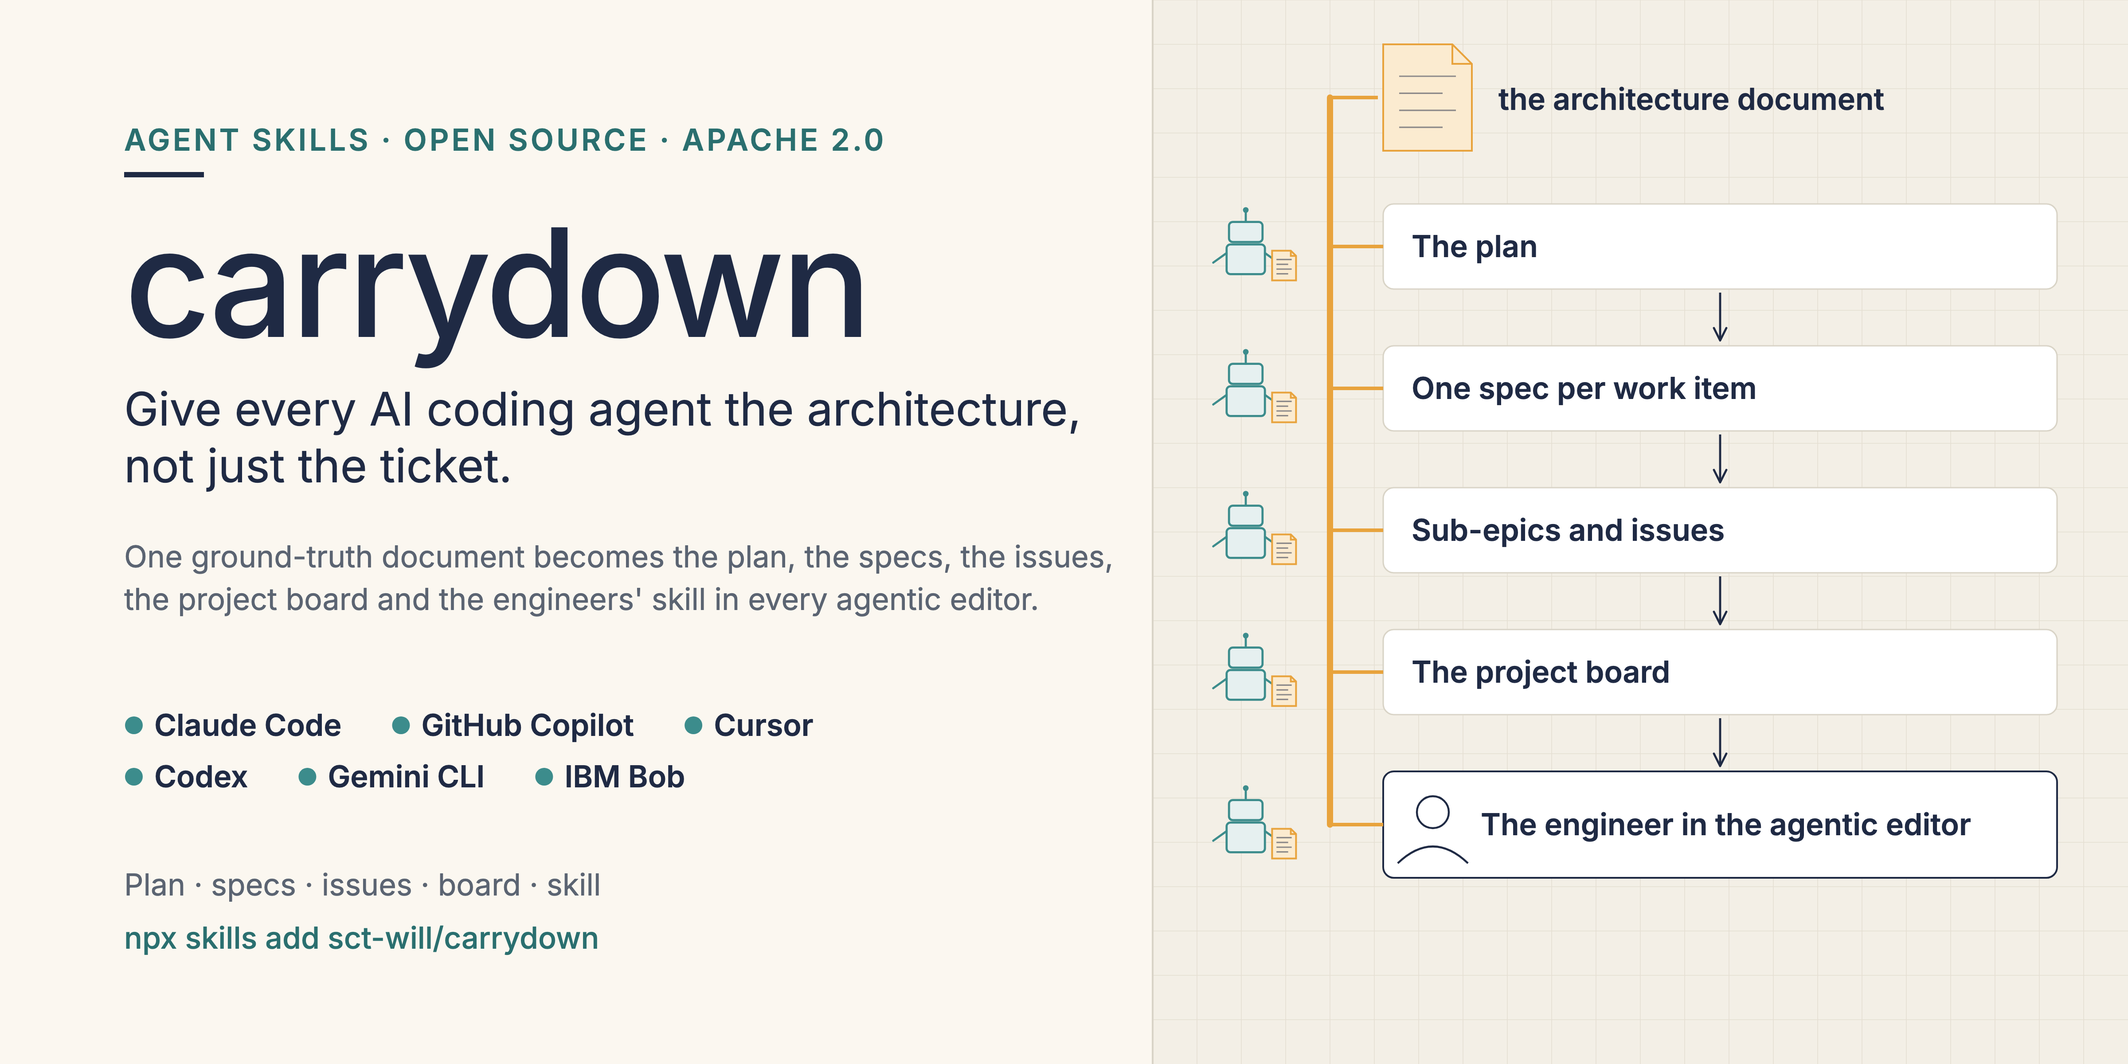
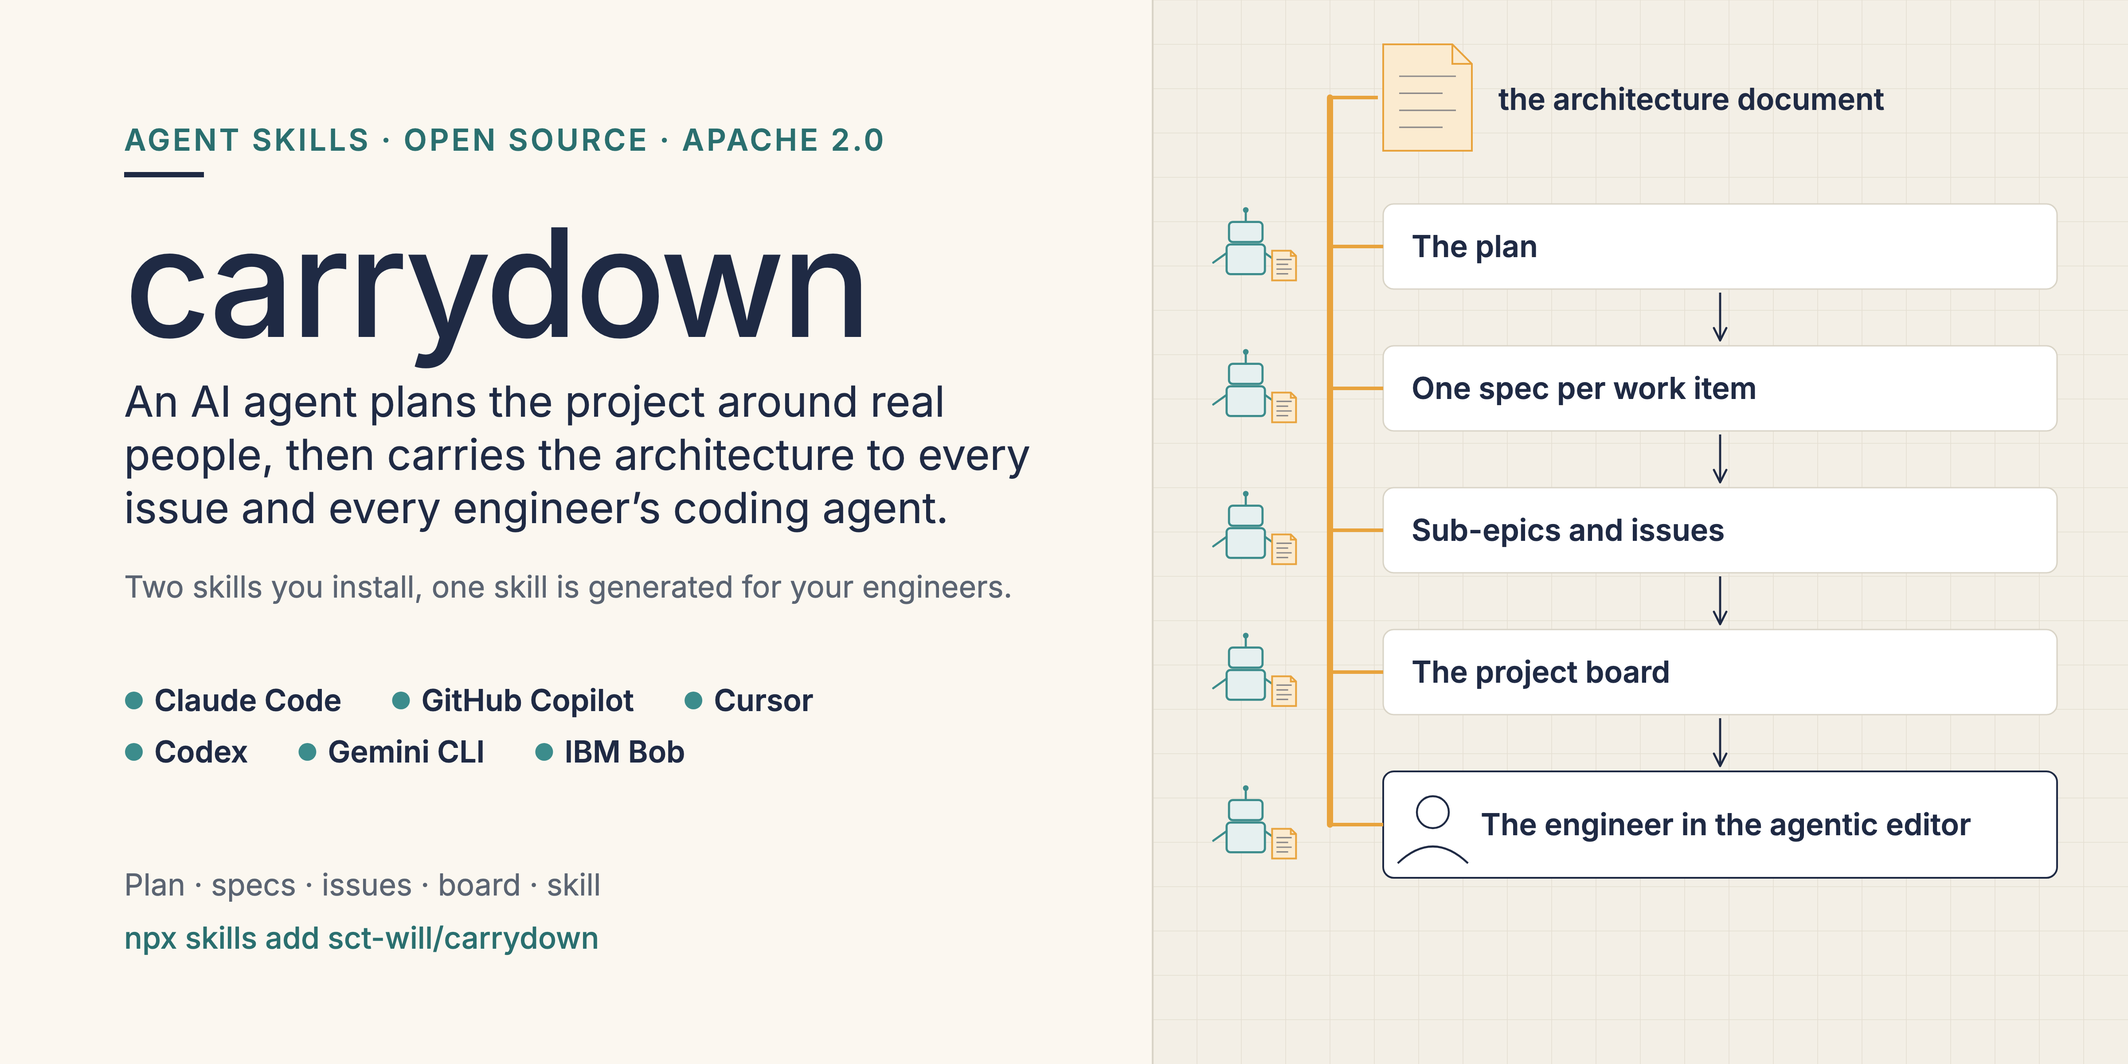
Rewrite the README around the four-step flow with the handoff diagram and real captures of the sample

Changed region(s): [[0.0625, 0.3438, 0.5312, 0.5938], [0.0625, 0.625, 0.375, 0.75]]

diff --git a/README.md b/README.md
@@ -1,70 +1,70 @@
-![carrydown. Give every AI coding agent the architecture, not just the ticket. One ground-truth document becomes the plan, the specs, the issues, the project board and the developer skill in every agentic editor.](docs/images/hero.png)
+![carrydown. An AI agent plans the project around real people, then carries the architecture to every issue and every engineer's coding agent. Two skills you install, one skill is generated for your engineers. On the right, the architecture document feeds the plan, one spec per work item, sub-epics and issues, the project board, and the engineer in the agentic editor.](docs/images/hero.png)
 
-# Give every AI coding agent the architecture, not just the ticket.
+# carrydown
 
-[![CI](https://github.com/sct-will/carrydown/actions/workflows/ci.yml/badge.svg)](https://github.com/sct-will/carrydown/actions/workflows/ci.yml) [![Licence](https://img.shields.io/github/license/sct-will/carrydown?v=2)](LICENSE) [![Agent Skills](https://img.shields.io/badge/Agent%20Skills-3%20skills-teal)](https://agentskills.io)
+Give your coding agent the architecture document, or other context, and optionally the project constraints: the number of engineers who will work on the project and the target duration. It drafts the plan, writes one specification per work item, carries both into GitHub as milestones, issues and a project board, and generates an agent skill every engineer's agent uses to read the right sections before it writes code. Two skills you install, one skill is generated for your engineers.
 
-I wrote most of a sixty-page architecture document this year, and I doubt anyone has read it end to end since the review, because nobody can hold sixty pages in their head while they build, me included. An AI agent can hold all of it, every section and every rule. carrydown has that agent carry the right paragraph to every engineer, through a plan dated around your real people, one specification per piece of work citing its section, GitHub issues, a board, and a skill that makes each coding agent read it all before it changes code.
-
-*Will Scott*
-
-[![Work item WI-03 from the sample as a GitHub issue, beside the specification file its AI engineering notes link to. The issue gives the target date, the checkpoint, a link to the specification, a link to the developer skill and the ground truth sections 3.4, 3.5 and 7.1. The specification lists the milestone, track, dates, size and dependencies, then an outline from "Why this work item exists" to "Decisions recorded", with a contract that excerpts the cited sections.](docs/images/issue-and-spec.png)](https://github.com/sct-will/carrydown-sample/issues/9)
-
-*A rendering of [the live WI-03 issue](https://github.com/sct-will/carrydown-sample/issues/9): its notes send the agent to the specification, and the specification to the sections it cites.*
+[![CI](https://github.com/sct-will/carrydown/actions/workflows/ci.yml/badge.svg)](https://github.com/sct-will/carrydown/actions/workflows/ci.yml) [![Licence](https://img.shields.io/github/license/sct-will/carrydown?v=2)](LICENSE) [![Agent Skills](https://img.shields.io/badge/Agent%20Skills-2%20skills-teal)](https://agentskills.io)
 
 ## Getting started
 
-Three ways in, and the first two need no install.
-
-**Look.** Open the [public sample board](https://github.com/users/sct-will/projects/2), click WI-03, then follow its specification link to the sections it cites. That is what an engineer's agent reads before it starts.
-
-**Try.** [Open the sample in a Codespace](https://codespaces.new/sct-will/carrydown), a ready-made computer in your browser. As it starts it runs the checker on the bundled sample, printing the schedule, the load table and the critical path, then a dry run of the issues it would create, without touching GitHub. "Codespaces: View Creation Log" shows it again.
-
-**Install.** Run this line in your project folder, pick your coding agents, then tell your agent "Set up a project plan from this document." Nothing is written to GitHub until you say yes.
+Run this in your project folder and pick your coding agent:
 
 ```bash
 npx skills add sct-will/carrydown
 ```
 
-## What it sounds like
+Put your document in `docs/ground-truth/` and tell your agent:
 
-The sample, from document to board. Text in code style is what the skills and scripts print, word for word; the rest is shortened.
+> Set up a project plan from this document.
 
-> **You:** Set up a project plan from this document. It is `docs/source/architecture.md`.
->
-> **Agent:** `carrydown: interview, step 1 of 6`. Which documents must the project obey, and which wins if two disagree? Five short steps follow, on people, dates, the repository, agents and tests.
->
-> **You:** Show me the load table and the critical path.
->
-> **Agent:** Each person's work against their allocated time, per work unit: `idris  60%  3 of 6d (50%)  4 of 9d (44%)  4 of 5d (74%)  0 of 6d  3 of 6d (50%)`. Nobody is over 100 percent, and the critical path `WI-01 -> WI-02 -> WI-04 -> WI-08 -> WI-11` meets the target with two days to spare.
->
-> **You:** Yes, the plan is right. Create the GitHub issues and the board.
->
-> **Agent:** Dry run, nothing written yet: `1 Epic, 5 sub-epics, 9 work item issues`. Shall I go ahead?
->
-> **You:** Go ahead. Then generate the developer skill.
->
-> **Agent:** Done, and the board is at https://github.com/users/sct-will/projects/2. Send each engineer the line for their agent, such as `npx skills add https://github.com/sct-will/carrydown-sample/tree/main/docs/dev/skills/expense-approvals-dev -a claude-code`, or `-a cursor`, `-a github-copilot`, `-a codex`, `-a gemini-cli` or `-a bob`. They start an item by saying "Work on WI-03".
-
-Before the GitHub step, a senior engineer reads the specifications for about an hour. The full output is in [a recorded run](docs/sample-run.md).
+To look before you install, open [the sample board](https://github.com/users/sct-will/projects/2), or [open the sample in a Codespace](https://codespaces.new/sct-will/carrydown) and watch the checker and a dry run of the issues without touching GitHub.
 
 ## How it works
 
-![How carrydown works, in six steps. Step 1, two inputs: the ground truth, which is required and can be architecture, requirements, analyst notes, governance rules and development standards as Word or Markdown files; and the project constraints, which are optional: the people, the track each owns, the percent of their time, start dates, days off, and a delivery date or number of weeks with any breaks. The agent takes what you have: give both and the plan fits them, give one and the agent backs into the other. Step 2, carrydown-ground-truth renders the document to Markdown with a section index that every later file cites. Step 3, the plan and the specs: the plan file, one milestone file per milestone and one specification per work item, checked against the plan; the ground truth carries down into every spec and the agent's instructions, and the constraints become dates, owners and fields. Step 4, carrydown-plan-to-github creates the GitHub issues: labels, sub-epics, work item issues, sub-issue links and an epic roll-up comment, dry run first, then apply. Step 5, the GitHub Project board with Work unit, Track, Complete by and Checkpoint fields and table, board and roadmap views. Step 6, carrydown-dev-skill generates the developer skill, installed in every agentic editor; an engineer says "Work on WI-07" and their agent reads the spec and the cited ground truth before planning any code. Nothing is written to GitHub until you confirm, and every GitHub step runs as a dry run first.](docs/images/flow.png)
+![How carrydown works. Two lanes. Plan owner, an engineering or product manager: step 1 Generate with carrydown-ground-truth, in: architecture document plus people and dates, out: plan.yaml and one spec per work item; step 2 Review, no skill, read and edit the plan and specs with the agent; step 3 Carry down to GitHub with carrydown-plan-to-github, out: epic, milestones, issues with specs, board, engineers' skill. One install line goes down to the Engineers lane: step 4 Work the issues, "Work on WI-03", the agent invokes the skill, reads the spec and the cited sections, then plans the code. The ground truth document is the only amber element and a thin amber thread runs from it through steps 1 and 3 into step 4.](docs/images/handoff.png)
+
+1. **Generate.** You have the ground truth, usually an architecture document. Your agent interviews you about people, time and dates, then writes the plan and one specification per work item. Skill: [carrydown-ground-truth](skills/carrydown-ground-truth/SKILL.md).
+2. **Review.** You read the plan and the specifications and edit them with the agent until they are right. No separate reviewer.
+3. **Carry down to GitHub.** Say "put the plan on GitHub". Then an epic, a sub-epic per milestone, an issue per work item with its specification, the board and the engineers' skill are generated by the agent. Skill: [carrydown-plan-to-github](skills/carrydown-plan-to-github/SKILL.md).
+4. **Work the issues.** Each engineer installs that skill once and says "Work on WI-03". Their agent reads the specification and the sections it cites, then plans the code.
+
+You are the plan owner, an engineering manager or a product manager, and you need not write code. The [plan owner guide](docs/plan-owner-guide.md) walks each step with you.
+
+## The sample, real and public
+
+[![Issue 9 in the sample repository, WI-03 Approval routing engine, as GitHub renders it. Open, parent Milestone 2, Route to approvers. The body gives the target completion date, the checkpoint, why the item exists, then the AI engineering notes: a link to the specification, a link to the engineers' skill, the instruction to install it once and ask your coding agent to work on WI-03, and the ground truth sections 3.4, 3.5 and 7.1.](docs/images/issue-9.png)](https://github.com/sct-will/carrydown-sample/issues/9)
+
+*What step 4 opens: [issue 9](https://github.com/sct-will/carrydown-sample/issues/9) and [the specification it links to](https://github.com/sct-will/carrydown-sample/blob/main/docs/spec/m2-route-to-approvers/wi-03-routing-engine.md).*
+
+[![The sample's GitHub Project as a table grouped by work unit, with the Title, Track, Complete by and Checkpoint columns. Five work units from 1 February to 23 April 2027, each with its milestone row and its work items, for example WI-03 Approval routing engine on the Workflow track, complete by 19 February 2027, checkpoint 26 February 2027.](docs/images/board.png)](https://github.com/users/sct-will/projects/2)
+
+*What step 3 built: [the board](https://github.com/users/sct-will/projects/2), shown as a table grouped by work unit.*
+
+The sample is a fictional expense approvals service, so the company, the people and the dates are invented. Everything the two skills made from it is real and public in [carrydown-sample](https://github.com/sct-will/carrydown-sample): [plan.yaml](https://github.com/sct-will/carrydown-sample/blob/main/docs/spec/plan.yaml), the nine specifications, fifteen issues, the board and [the generated engineers' skill](https://github.com/sct-will/carrydown-sample/tree/main/docs/dev/skills/expense-approvals-dev). A copy sits in [`sample/expense-approvals/`](sample/expense-approvals/) for the self test.
+
+## What the agent asks you
+
+The first skill interviews you in six short steps. Nothing is written to GitHub until the second skill shows you a dry run and you say yes.
+
+| The agent asks | You answer with |
+| --- | --- |
+| Which documents must the project obey, and which wins if two disagree? | File paths, and the winner |
+| Who does the work, which part of the system does each person own, from when, and at what share of their time? | Names, a track each, start dates, days off |
+| When must it ship, or how many weeks do you have? | A date, a number of weeks, or "derive the date" |
+| Which repository, and which coding agents do the engineers use? | owner/repo and the agents |
+| What must the people who watch each milestone demonstration see to call it done? | Their words, which become acceptance criteria |
+| How is the code built, tested and merged here? | The commands and the branch rule |
+
+Then it shows the schedule, each person's load per work unit, the critical path and the slack before every checkpoint, and asks you to review. If you have a date and no team, say so, and it derives the capacity; if you have a team and no date, it derives the date. [docs/inputs.md](docs/inputs.md) has the details.
 
 ## What you get
 
-Everything starts from your ground truth, the documents your project must obey: architecture, requirements, governance rules, standards. From it you get:
-
-- **A plan** with milestones, owners and dates fitted to your people and time, a load table of each person's work per time block, and a critical path, the chain of items that sets the end date.
-- **One specification per work item**, the smallest piece of work an engineer can finish and show, citing its sections and checked against the plan by a script that also runs in continuous integration.
-- **GitHub issues**, one per work item, grouped under a sub-epic per milestone, each telling the agent what to read.
-- **A GitHub Project board** with work units, tracks and dates filled in.
-- **A developer skill** each engineer installs once, so "Work on WI-07" makes their agent read the specification and its sections before touching code.
-
-[![The sample's GitHub Project board as a table grouped by work unit. Each milestone and work item shows its track, complete-by date, checkpoint and parent issue, for example WI-03 Approval routing engine on the Workflow track, complete by 24 February 2027, checkpoint "Routing meets inbox" on 26 February.](docs/images/board-table.png)](https://github.com/users/sct-will/projects/2)
-
-*A rendering of [the live board](https://github.com/users/sct-will/projects/2), grouped by work unit.*
+- **A plan** in `docs/spec/plan.yaml`: milestones, tracks, owners and dates fitted to your people and time, with a load table and a critical path, and a written reason for every milestone.
+- **One specification per work item**, the smallest piece of work an engineer can finish and show, citing the sections it comes from and checked against the plan by a script that also runs in continuous integration.
+- **GitHub issues**, one per work item under a sub-epic per milestone, each telling the engineer's agent what to read.
+- **A GitHub Project board** with work units, tracks, dates and checkpoints filled in.
+- **The engineers' skill**, generated from your specifications and committed in your repository, so "Work on WI-07" makes any coding agent read the specification and its sections before touching code.
 
 <details>
 <summary>Where the files go in your project</summary>
@@ -84,9 +84,9 @@ docs/
 
 </details>
 
-## Who does what
+## How the plan is composed
 
-carrydown is for engineering leads, product managers and designers who own a plan and want every agent to follow it. You talk to the agent, which makes you the plan owner, and you need not write code. A senior engineer reads the specifications for about an hour before anything reaches GitHub, engineers install the skill the agent makes, and the people accountable watch each milestone's demonstration and decide whether it passed. The [plan owner guide](docs/plan-owner-guide.md#who-runs-what) has the full table.
+The agent does not sort tickets into weeks. Each engineer owns one track and stays on one theme at a time, so they switch context less. A milestone takes items from the tracks it needs, the tracks meet at a named joint check, and the milestone ends with one demonstration of integrated functionality given by the engineers whose tracks meet. Size divided by allocation gives calendar time, nobody passes 100 percent of their time in a work unit, slack sits before every checkpoint, and the critical path is read for single points of failure. The reason for each milestone is written in the plan, and the checker's "Planning review" reports coverage, theme switches, slack and load so you can argue with it. [The method](docs/method.md) lists the ten rules.
 
 ## How it compares
 
@@ -107,7 +107,7 @@ You need a coding agent and Node.js 22.20 or later; your agent checks for Python
 <details>
 <summary>Install for one agent, every agent, your user account or by hand</summary>
 
-- `--skill '*' -a <agent>` installs all three skills for one agent without questions, for example `npx skills add sct-will/carrydown --skill '*' -a claude-code`.
+- `--skill '*' -a <agent>` installs both skills for one agent without questions, for example `npx skills add sct-will/carrydown --skill '*' -a claude-code`.
 - `--all` installs for every supported agent; commit only the folders your engineers use.
 - `-g -a <agent>` installs for your user account. Keep the `-a`, or `-g` writes into every supported agent's folder.
 - `--list` shows the skills without installing them.
@@ -121,7 +121,7 @@ You need a coding agent and Node.js 22.20 or later; your agent checks for Python
 | Gemini CLI | `gemini-cli` | `.agents/skills/` | `~/.gemini/skills/` |
 | IBM Bob | `bob` | `.bob/skills/` | `~/.bob/skills/` |
 
-The installer knows [many more agents](https://github.com/vercel-labs/skills/blob/main/docs/agents.md), and any agent that reads the [Agent Skills format](https://agentskills.io) can use the skills. Without Node.js, copy the three folders in `skills/` into the folder from the table. Restart your agent afterwards.
+The installer knows [many more agents](https://github.com/vercel-labs/skills/blob/main/docs/agents.md), and any agent that reads the [Agent Skills format](https://agentskills.io) can use the skills. Without Node.js, copy the two folders in `skills/` into the folder from the table. Restart your agent afterwards.
 
 The installer prints third-party security scans; [docs/security.md](docs/security.md) explains what each skill touches.
 
@@ -133,10 +133,6 @@ The installer prints third-party security scans; [docs/security.md](docs/securit
 [docs/setup.md](docs/setup.md) goes from a computer with nothing installed to a project folder ready for the install line: [macOS](docs/setup.md#macos), [Windows](docs/setup.md#windows), [Linux](docs/setup.md#linux). If you cannot install programs, the Codespace has everything.
 
 </details>
-
-## The sample
-
-The sample is a fictional expense approvals service, so the company, people and dates are invented. What is real is everything the skills made from it: the plan, the nine specifications, the issues and the board, all live in [carrydown-sample](https://github.com/sct-will/carrydown-sample). A copy sits in [`sample/expense-approvals/`](sample/expense-approvals/) for the self test.
 
 ## Contributing and licence
 

diff --git a/docs/repository-metadata.md b/docs/repository-metadata.md
@@ -60,7 +60,7 @@ This is what [carrydown](https://github.com/sct-will/carrydown) made from one do
 
 Start with one work item. WI-03, the approval routing engine, is a GitHub issue whose AI engineering notes link to its specification, and that specification cites sections 3.4, 3.5 and 7.1 of the document. That chain, from issue to specification to paragraph, is what an engineer's coding agent reads before it changes code.
 
-[![Work item WI-03 as a GitHub issue, beside the specification file its AI engineering notes link to, which cites ground truth sections 3.4, 3.5 and 7.1.](docs/images/issue-and-spec.png)](https://github.com/sct-will/carrydown-sample/issues/9)
+[![Work item WI-03 as a GitHub issue, beside the specification file its AI engineering notes link to, which cites ground truth sections 3.4, 3.5 and 7.1.](docs/images/issue-9.png)](https://github.com/sct-will/carrydown-sample/issues/9)
 
 **Look.** Open the [public board](https://github.com/users/sct-will/projects/2), click WI-03, then follow its specification link to the sections it cites. No account and no install.
 

diff --git a/LICENSE-CONTENT.md b/LICENSE-CONTENT.md
@@ -10,7 +10,7 @@ The following content is licensed under the Creative Commons Attribution 4.0 Int
 - The documents in `docs/`, `README.md` and `START-HERE.md`.
 - Any images in this repository.
 
-The flow diagram (`docs/images/flow.png`) and the hero image (`docs/images/hero.png`) may be reused under CC BY 4.0 with attribution to Will Scott.
+The flow diagram (`docs/images/flow.png`), the handoff diagram (`docs/images/handoff.png`) and the hero image (`docs/images/hero.png`) may be reused under CC BY 4.0 with attribution to Will Scott.
 
 You may share and adapt this content for any purpose, including commercial use, as long as you give appropriate credit, link to the licence, and indicate if you made changes. Do not suggest that the licensor endorses you or your use.
 
